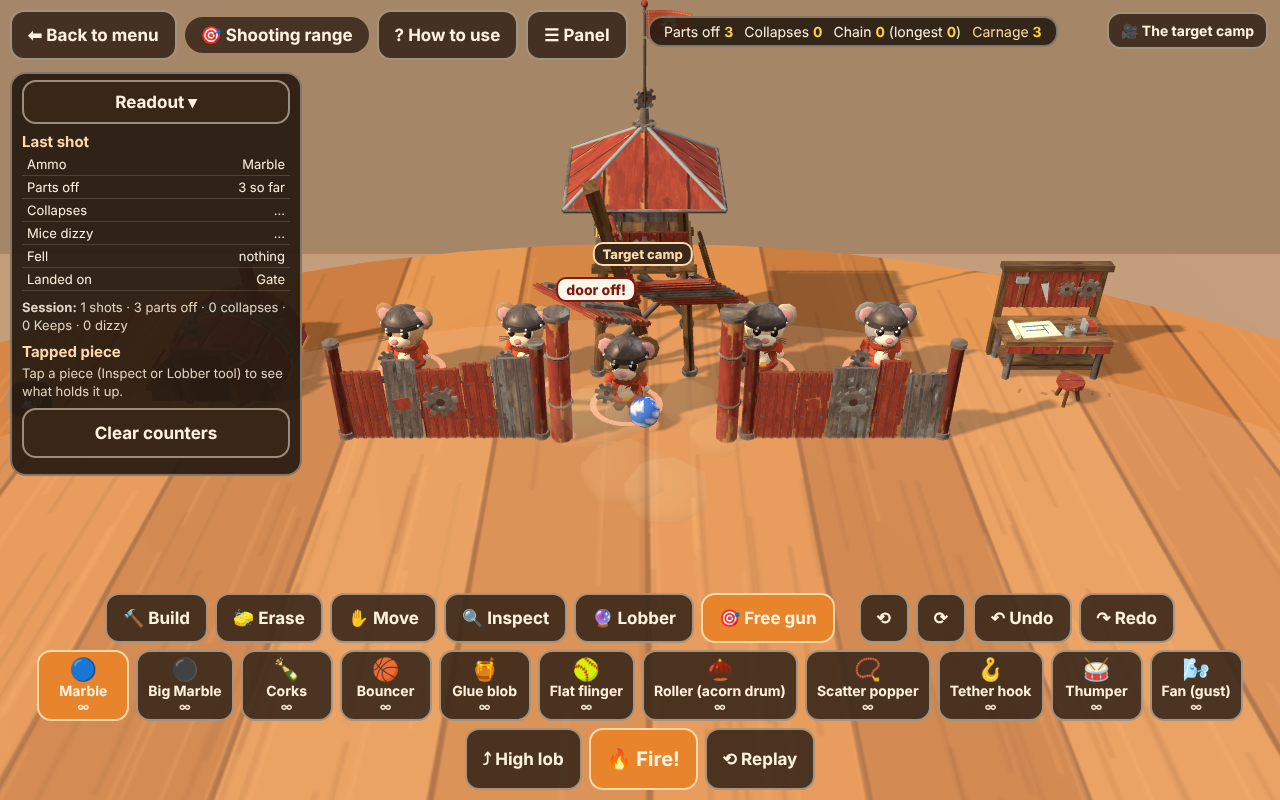
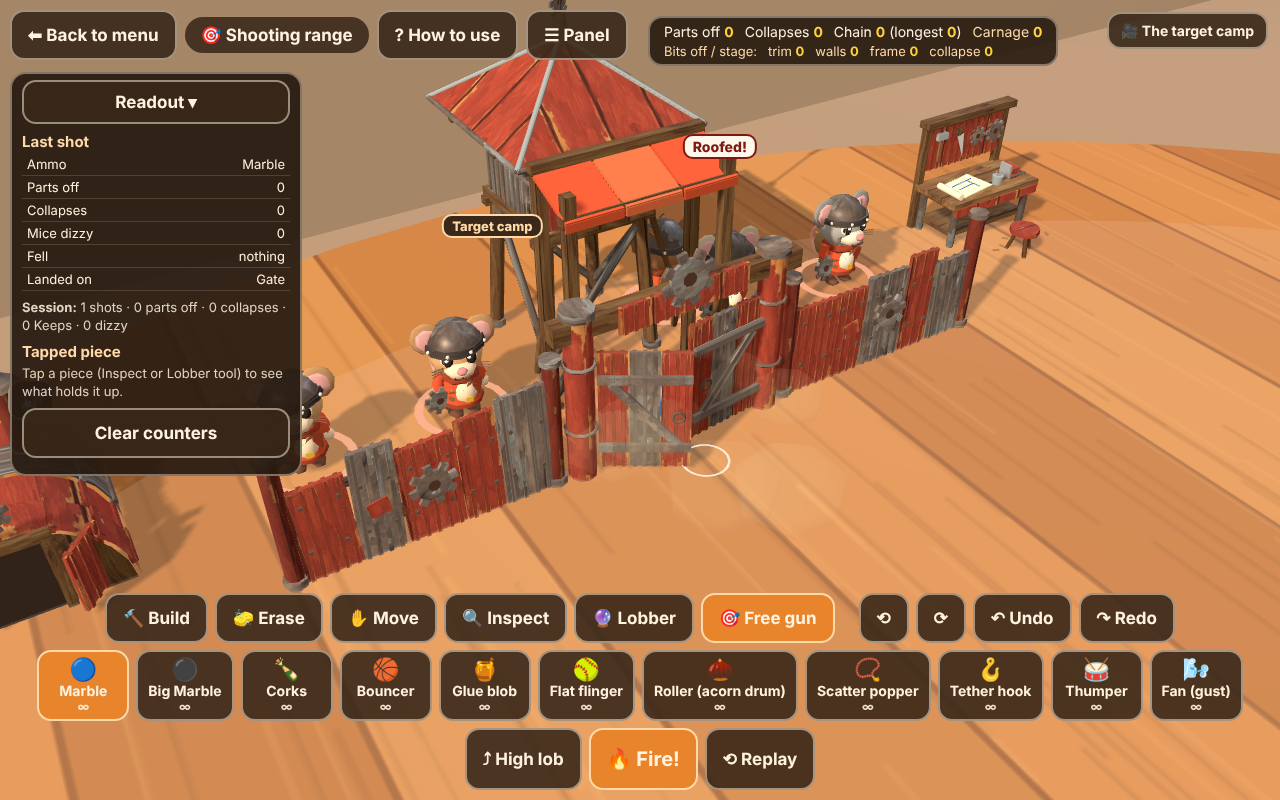
Arsenal: tests for every family and counter, counter matrix report, shots arsenal-1 to 8, camera elevation and yaw for close-ups
Claude-Session: https://claude.ai/code/session_0171oc5wTsPoimaja7RRfUcs

diff --git a/games/sofa-siege/tests/lab-test.js b/games/sofa-siege/tests/lab-test.js
@@ -390,6 +390,114 @@ const run = async () => {
   const mm = await ev(() => { SG.start('blue', { level: 'easy', seed: 3 }); const o = { kit: SG.sides.every((s) => s.kit.every((k) => !SG.BK[k.kind])), phase: SG.phase }; SG.skipBuild(); o.pieces = SG.pieces.every((p) => !SG.BK[p.kind]); SG.reset(); SG.labStart(); SG.lab.card = false; return o; });
   ok('a match never has a building: no kit has one, and a match camp built for both sides has none', mm.kit && mm.pieces);
 
+  /* 13. The Arsenal: seven families of weapon, the pieces that counter them, and the counter matrix */
+  const ARS_START = () => { SG.labStart(); SG.lab.card = false; SG.hold = true; SG.lab.topple = false; SG.setProto('arsenal', true, false); };
+  const KINDS = ['awning', 'shield', 'ditch', 'logs', 'net', 'cutter', 'heavy', 'lowwall'];
+  await ev(ARS_START);
+  ok('Arsenal: eight new pieces (Roof, Shield board, Ditch, Log barrier, Net, Cutter post, Heavy block, Low wall) have a size, a height and a part table of three parts or more; the kit brace is the ninth counter', await ev((K) => K.every((k) => SG.FOOT[k] && SG.TALL[k] > 0 && SG.BK[k] && SG.bldInfo(k) && Object.keys(SG.bldInfo(k).parts).length >= 3) && !!SG.FOOT.brace, KINDS));
+  await btn('tool_build');
+  const bar = await ev((K) => ({ kinds: K.every((k) => !!document.querySelector('#lab [data-a="k_' + k + '"]')), camps: ['bare', 'roof', 'shield', 'ground', 'net', 'cutter', 'brace', 'heavy', 'all'].every((c) => !!document.querySelector('#lab [data-a="tg_ars_' + c + '"]')) }), KINDS);
+  ok('...all eight are in the Build bar, and the target list has nine Arsenal camps (bare, one for each counter, and every counter)', bar.kinds && bar.camps, JSON.stringify(bar));
+  ok('...they are in no kit and no match has one (a match started now has five kinds of ammunition, no Arsenal weapon, and a design with a Roof in it drops the Roof)', await ev((K) => {
+    SG.labStart(); SG.lab.card = false; SG.setProto('arsenal', true, false); SG.labLoadTarget('empty', true); SG.labPlace('awning', 0, 1.5, Math.PI); const d = SG.labToDesign(0, 'with a roof'); const has = d.placements.some((q) => q.kind === 'awning');
+    SG.labBack(); SG.start('blue', { level: 'easy', seed: 3 }); const o = { has, ammo: Object.keys(SG.ammo).length, kit: SG.sides.every((s) => s.kit.every((k) => K.indexOf(k.kind) < 0)), off: !SG.labFlags.arsenal };
+    SG.labDesignToBuild && 0; SG.skipBuild(); o.pieces = SG.pieces.every((p) => K.indexOf(p.kind) < 0); SG.reset(); SG.labStart(); SG.lab.card = false; return has && o.ammo === 5 && o.kit && o.pieces && o.off; }, KINDS));
+  ok('...the Arsenal switch (a Lab prototype) is off by default: the ammo row has the five old kinds; on it has six more (flinger, roller, popper, hook, thumper, fan); Back to menu puts them away', await ev(() => {
+    SG.labStart(); const a = Object.keys(SG.ammo).length; SG.setProto('arsenal', true, false); const b = Object.keys(SG.ammo); const rec = SG.ammo.flinger && SG.ammo.fan && SG.ammo.thumper; SG.labBack(); const c = Object.keys(SG.ammo).length; SG.labStart(); SG.lab.card = false; return a === 5 && b.length === 11 && !!rec && c === 5; }));
+  ok('...costs: every counter is 1 budget point or less ("cheap"), and each is cheaper than the weapon it is aimed at', await ev(() => { SG.labStart(); SG.setProto('arsenal', true, false); const c = SG.CONFIG.v2.cost, F = SG.arsFor, W = { lobber: 'marble', flinger: 'flinger', roller: 'roller', popper: 'popper', hook: 'hook', thumper: 'thumper', fan: 'fan' }, bad = [];
+    Object.keys(F).forEach((f) => F[f].forEach((k) => { const cost = c[k] == null ? 1 : c[k]; if (cost > 1.5 || cost >= SG.wPrice(SG.ammo[W[f]].w)) bad.push(k + ' ' + cost + ' vs ' + f); })); SG.setProto('arsenal', false, false); return bad.length ? bad.join() : true; }));
+  /* the supports of each counter, one at a time: take away what holds it and what hung on it falls */
+  const SUPPORT = {
+    awning: [[['awning.post.FL', 'awning.post.FR'], 'awning.beam.F', false], [['awning.post.BL', 'awning.post.BR'], 'awning.cloth.1', false]],
+    shield: [[['shield.leg.L'], 'shield.plank.2', true], [['shield.leg.R'], 'shield.plank.2', false]],
+    ditch: [[['ditch.rim.F'], 'ditch.pit.1', true], [['ditch.rim.B'], 'ditch.pit.1', false]],
+    logs: [[['logs.peg.L'], 'logs.log.0', true], [['logs.peg.R'], 'logs.log.2', false]],
+    net: [[['net.pole.FL', 'net.pole.FR'], 'net.rope.F', false], [['net.pole.BL', 'net.pole.BR'], 'net.mesh.1', false]],
+    cutter: [[['cutter.post'], 'cutter.blade.1', false]], heavy: [[['heavy.block'], 'heavy.ring', false]], lowwall: [[['lowwall.base'], 'lowwall.brick.3', false]] };
+  for (const k of KINDS) {
+    const r = await ev(([k, S]) => { SG.labStart(); SG.lab.card = false; SG.labLoadTarget('empty', true); SG.labLoadRecs(0, []); const a = SG.labPlace(k, 0, 1.6, Math.PI), b = SG.labPlace(k, 0, -1.6, 0); const p = b.piece; const o = { both: a.ok && b.ok && a.piece.built && b.piece.built && a.piece.side === 0 && b.piece.side === 1, steps: [] };
+      const on = (id) => p.ps.filter((q) => q.id === id)[0].st === 'on';
+      S[k].forEach(([cut, probe, standsAfter]) => { cut.forEach((id) => SG.debug.knock(p.id, id)); o.steps.push([probe, on(probe), standsAfter]); });
+      o.floating = SG.bldFloating().length; o.rule = SG.labSupports(p).rows.length > 0; return o; }, [k, SUPPORT]);
+    ok('Arsenal piece ' + k + ': goes on either camp, built; its support rule holds (' + SUPPORT[k].map((s) => s[0].join('+')).join(', then ') + ' gone: what hung on it falls, nothing floats), and Inspect lists its supports', r.both && r.steps.every(([, on, stands]) => on === stands) && r.floating === 0 && r.rule, JSON.stringify(r));
+  }
+  /* the seven families, one at a time (all with a fixed seed: the same shot gives the same result) */
+  const SHOT = (amm, camp, hi, seed, spotFn) => `(() => { SG.labLoadTarget('ars_${camp}', true); const Y = SG.arsLayout(), k = SG.arsCamp('bare', 1).find((r) => r.kind === 'tower'); SG.labSetAmmo('${amm}'); SG.labSetHigh(${!!hi}); const sp = ${spotFn || '[0, Y.keep]'}, w = SG.arsCamp('bare', 1)[0]; const f = (c) => ({ x: -c[0], z: -c[1] });
+    const t = f(sp), a = SG.labFire(0, 'gun', t.x, t.z, { force: true, seed: ${seed || 100} }); SG.labSettle(12); const c = SG.lab.cur; return { a, c, land: c.landings[0], parts: c.parts.map((q) => q.kind + '.' + q.part) }; })()`;
+  ok('Arsenal, Lobber (the Marble lobbed): a low lob lands on the first piece in the way (the gate); a high lob goes over it and lands on the Keep; a Roof over the Keep takes a high lob (the blast shrinks to a quarter, no Keep part comes off) and a panel comes off after two low lobs', await ev(([S1, S2, S3, S4]) => {
+    SG.labStart(); SG.lab.card = false; SG.setProto('arsenal', true, false); SG.lab.topple = false; const lo = eval(S1), hi = eval(S2), rf = eval(S3); const r1 = rf.land.r, r0 = hi.land.r; window.__lb = [lo.land.hit, hi.land.hit, rf.land.hit, r1, r0];
+    const k = SG.arsCamp('bare', 1).find((r) => r.kind === 'tower'); SG.labLoadTarget('ars_roof', true); SG.labSetAmmo('marble'); SG.labSetHigh(false); const panels = () => SG.pieces.filter((p) => p.kind === 'awning')[0].ps.filter((q) => /cloth/.test(q.id) && q.st === 'on').length; const n0 = panels(); for (let i = 0; i < 2; i++) { SG.labFire(0, 'gun', k.x, k.z, { force: true, seed: 100 + i }); SG.labSettle(10); }
+    return lo.land.hit === 'gate' && hi.land.hit === 'tower' && rf.land.hit === 'awning' && r1 <= r0 * .3 && rf.parts.length === 0 && panels() === n0 - 1; }, [SHOT('marble', 'bare', false), SHOT('marble', 'bare', true), SHOT('marble', 'roof', true)]), JSON.stringify(await ev(() => window.__lb)));
+  ok('Arsenal, Flat flinger: a straight line (no arc), fast (about half the Marble\'s flight time), punches through a thin gate and lands on the Keep behind it; a tent in its way stops it (it needs a clear line); two shots with one seed are the same', await ev(() => {
+    SG.labStart(); SG.lab.card = false; SG.setProto('arsenal', true, false); SG.lab.topple = false; SG.labLoadTarget('ars_bare', true); const Y = SG.arsLayout(), t = { x: 0, z: -Y.keep }; const o = {};
+    SG.labSetAmmo('marble'); o.tm = SG.arc(0, t.x, t.z, 'gun').T; SG.labSetAmmo('flinger'); const ar = SG.arc(0, t.x, t.z, 'gun'); o.h = ar.h; o.tf = ar.T; const run = () => { SG.labLoadTarget('ars_bare', true); const a = SG.labFire(0, 'gun', t.x, t.z, { force: true, seed: 100 }); SG.labSettle(12); return { pn: a.pn, land: SG.lab.cur.landings[0].hit, parts: SG.lab.cur.parts.map((q) => q.part).join() }; };
+    const r1 = run(), r2 = run(); o.pierce = r1.pn === 1 && r1.land === 'tower' && /gate/.test(r1.parts); o.same = JSON.stringify(r1) === JSON.stringify(r2);
+    SG.labLoadTarget('ars_bare', true); const tent = SG.labPlace('tent', 0, -Y.row + .5, 0); const a2 = SG.labFire(0, 'gun', t.x, t.z, { force: true, seed: 100 }); SG.labSettle(12); o.tentHit = SG.lab.cur.landings[0].hit;
+    window.__fl = o; return o.h === 0 && o.tf < o.tm * .55 && o.pierce && o.same && (o.tentHit === 'tent' || o.tentHit === 'gate'); }), JSON.stringify(await ev(() => window.__fl)));
+  ok('Arsenal, Roller (acorn drum): lands short on the ground, then rolls on along the table and knocks the parts off the foot of the gate and walls (7 parts here); a ditch swallows it and a log barrier stops it', await ev(() => {
+    SG.labStart(); SG.lab.card = false; SG.setProto('arsenal', true, false); SG.lab.topple = false; const Y = SG.arsLayout(), t = { x: -.2, z: -(Y.front - .1) }, res = {};
+    ['bare', 'ditch', 'logs'].forEach((c) => { SG.labLoadTarget('ars_' + c, true); SG.labSetAmmo('roller'); const a = SG.labFire(0, 'gun', t.x, t.z, { force: true, seed: 100 }); let rolled = false; for (let i = 0; i < 700 && SG.marbles.some((m) => m.live); i++) { SG.step(1 / 60); if (a.rolling) rolled = true; } SG.labSettle(10); res[c] = { n: SG.lab.cur.partsOff, land: SG.lab.cur.landings[0].hit, rolled, stopped: !!(a.rl && a.rl.stopped), parts: SG.lab.cur.parts.map((q) => q.kind).join() }; });
+    window.__ro = res; return res.bare.rolled && res.bare.land === '' && res.bare.n >= 5 && res.ditch.stopped && /ditch/.test(res.ditch.parts + 'ditch') && res.ditch.n <= 1 && res.logs.stopped && res.logs.n <= 1; }), JSON.stringify(await ev(() => window.__ro)));
+  ok('Arsenal, Roller: a ditch lane that is full lets the next one over (4 to a lane), and a ditch does not stop a flat shot or a lob', await ev(() => {
+    SG.labStart(); SG.lab.card = false; SG.setProto('arsenal', true, false); SG.lab.topple = false; SG.labLoadTarget('ars_ditch', true); const Y = SG.arsLayout(), t = { x: -.2, z: -(Y.front - .1) }, st = []; SG.labSetAmmo('roller');
+    for (let i = 0; i < 6; i++) { const a = SG.labFire(0, 'gun', t.x, t.z, { force: true, seed: 100 }); SG.labSettle(12); st.push(!!(a.rl && a.rl.stopped)); }
+    const lane = SG.pieces.filter((p) => p.kind === 'ditch')[0].ps.filter((q) => /pit/.test(q.id) && q.st !== 'on').length; window.__dl = st.join() + ' lane ' + lane;
+    const fl = SG.labMatrixCell('flinger', 'ditch'), fb = SG.labMatrixCell('flinger', 'bare'); return st.slice(0, 4).every((x) => x) && !st[5] && lane === 1 && fl.score >= fb.score * .8; }), await ev(() => window.__dl));
+  ok('Arsenal, Scatter popper: eight beads in a wide cloud (spread over more than the Marble\'s blast), light damage (under half a Marble salvo), mice they land near are slowed; a Net catches the beads', await ev(() => {
+    SG.labStart(); SG.lab.card = false; SG.setProto('arsenal', true, false); SG.lab.topple = false; SG.labLoadTarget('ars_bare', true); const Y = SG.arsLayout(), t = { x: 0, z: -Y.keep }; SG.labSetAmmo('popper'); const a = SG.labFire(0, 'gun', t.x, t.z, { force: true, seed: 100 }); const balls = SG.marbles.length; let slowed = 0; for (let i = 0; i < 600; i++) { SG.step(1 / 60); slowed = Math.max(slowed, SG.mice.filter((m) => m.side === 1 && m.slowT > 0).length); if (SG.lab.cur.done) break; }
+    const xs = SG.lab.cur.landings.map((l) => l.x), spread = Math.max(...xs) - Math.min(...xs); const pop = SG.labMatrixCell('popper', 'bare'), lob = SG.labMatrixCell('lobber', 'bare'), net = SG.labMatrixCell('popper', 'net'); window.__po = { balls, slowed, spread: +spread.toFixed(2), pop: pop.score, lob: lob.score, net: net.score, caught: net.caught };
+    return balls === 8 && slowed >= 1 && spread > .3 && pop.score < lob.score / 2 && net.score <= pop.score * .6 && net.caught >= 3; }), JSON.stringify(await ev(() => window.__po)));
+  ok('Arsenal, Tether hook: snags the first part it passes and yanks it a unit and a half toward the gun; a Cutter post cuts the string (the blade comes off, nothing is yanked); a Net catches the hook', await ev(() => {
+    SG.labStart(); SG.lab.card = false; SG.setProto('arsenal', true, false); SG.lab.topple = false; const Y = SG.arsLayout(), t = { x: 0, z: -Y.row }, o = {};
+    SG.labLoadTarget('ars_bare', true); SG.labSetAmmo('hook'); let a = SG.labFire(0, 'gun', t.x, t.z, { force: true, seed: 100 }); SG.labSettle(12); const gate = SG.pieces.filter((p) => p.kind === 'gate' && p.side === 1)[0], off = gate.ps.filter((q) => q.st === 'off')[0]; o.snag = !!a.snag; o.yank = !!off && off.rz > off.wz + .5; o.parts = SG.lab.cur.partsOff;
+    SG.labLoadTarget('ars_cutter', true); SG.labSetAmmo('hook'); const c0 = SG.stats.cuts | 0; a = SG.labFire(0, 'gun', t.x, t.z, { force: true, seed: 100 }); SG.labSettle(12); o.cut = (SG.stats.cuts | 0) - c0; o.cutParts = SG.lab.cur.parts.map((q) => q.kind).join();
+    SG.labLoadTarget('ars_net', true); SG.labSetAmmo('hook'); const k0 = SG.stats.caught | 0; a = SG.labFire(0, 'gun', t.x, t.z, { force: true, seed: 100 }); SG.labSettle(12); o.caught = (SG.stats.caught | 0) - k0; o.netParts = SG.lab.cur.parts.map((q) => q.kind).join();
+    window.__hk = o; return o.snag && o.yank && o.parts >= 1 && o.cut === 1 && o.cutParts === 'cutter' && o.caught >= 1 && !/gate|wall|tower/.test(o.netParts); }), JSON.stringify(await ev(() => window.__hk)));
+  ok('Arsenal, Thumper: shakes the ground and loosens what only a strong shake can: a wall with no brace loses its planks and a gate its doors and lintel; a wall with a brace piece keeps them; the old Pocket Earthquake (one fastener) leaves both alone', await ev(() => {
+    SG.labStart(); SG.lab.card = false; SG.setProto('arsenal', true, false); SG.setProto('p_quake', true, false); SG.lab.topple = false; const o = {}, recs = SG.arsCamp('bare', 1), wall = recs.filter((r) => r.kind === 'wall')[0], gateR = recs.filter((r) => r.kind === 'gate')[0];
+    const planks = () => SG.pieces.filter((p) => p.side === 1 && p.kind === 'wall').map((p) => p.ps.filter((q) => /plank/.test(q.id) && q.st === 'on').length), gate = () => SG.pieces.filter((p) => p.side === 1 && p.kind === 'gate')[0].ps.filter((q) => q.st === 'on').length;
+    const thump = (camp, amm, at) => { SG.labLoadTarget('ars_' + camp, true); SG.labSetAmmo(amm); SG.labFire(0, 'gun', at.x, at.z, { force: true, seed: 100 }); SG.labSettle(12); };
+    SG.labLoadTarget('ars_bare', true); o.pb = planks().join(); o.gb = gate(); thump('bare', 'thumper', wall); o.bare = planks().join(); thump('brace', 'thumper', wall); o.braced = planks().join(); thump('bare', 'p_quake', wall); o.old = planks().join();
+    SG.labLoadTarget('ars_bare', true); thump('bare', 'thumper', gateR); o.gate = o.gb - gate(); thump('bare', 'p_quake', gateR); o.gateOld = o.gb - gate(); SG.setProto('p_quake', false, false); window.__th = o;
+    return o.pb === '5,5' && Math.min(...o.bare.split(',').map(Number)) === 0 && o.braced === '5,5' && o.old === '5,5' && o.gate >= 3 && o.gateOld === 0; }), JSON.stringify(await ev(() => window.__th)));
+  ok('Arsenal, Fan: no damage by itself (no part off, no collapse), blows the mice sideways, moves a Marble fired through the gust off its line, tears the cloth off a Roof; a Heavy block shelters the mice near it', await ev(() => {
+    SG.labStart(); SG.lab.card = false; SG.setProto('arsenal', true, false); SG.lab.topple = false; const Y = SG.arsLayout(), t = { x: 0, z: -(Y.keep - .1) }, o = {};
+    const mice = () => SG.mice.filter((m) => m.side === 1).map((m) => [m.x, m.z]);
+    SG.labLoadTarget('ars_bare', true); const m0 = mice(); SG.labSetAmmo('fan'); SG.labFire(0, 'gun', t.x, t.z, { force: true, seed: 100 }); SG.labSettle(12); o.parts = SG.lab.cur.partsOff; o.col = SG.lab.cur.collapses; o.blown = SG.stats.blown | 0;
+    /* a Marble through the gust: fire the fan, wait for the landing, then a Marble at the same spot while the gust blows */
+    const land = (withGust) => { SG.labLoadTarget('ars_bare', true); SG.gusts = []; if (withGust) { SG.labSetAmmo('fan'); SG.labFire(0, 'gun', t.x, t.z, { force: true, seed: 100 }); for (let i = 0; i < 400 && !(SG.gusts && SG.gusts.length); i++) SG.step(1 / 60); SG.step(.3); }
+      SG.labSetAmmo('marble'); SG.labSetHigh(true); const a = SG.labFire(0, 'gun', t.x, t.z, { force: true, seed: 100 }); const x1 = a.x1; for (let i = 0; i < 400 && a.live; i++) SG.step(1 / 60); SG.labSettle(12); const l = SG.lab.cur.landings[0]; return l ? l.x : null; };
+    const xa = land(false), xb = land(true); o.drift = xa == null || xb == null ? 0 : Math.abs(xb - xa); SG.labSetHigh(false);
+    SG.labLoadTarget('ars_roof', true); SG.labSetAmmo('fan'); SG.labFire(0, 'gun', t.x, t.z, { force: true, seed: 100 }); SG.labSettle(12); o.cloth = SG.pieces.filter((p) => p.kind === 'awning')[0].ps.filter((q) => /cloth/.test(q.id) && q.st !== 'on').length;
+    const bare = SG.labMatrixCell('fan', 'bare'), hv = SG.labMatrixCell('fan', 'heavy'); o.bare = bare.mice; o.heavy = hv.mice; window.__fn = o;
+    return o.parts === 0 && o.col === 0 && o.blown >= 1 && o.drift > .04 && o.cloth >= 1 && hv.mice <= bare.mice * .6; }), JSON.stringify(await ev(() => window.__fn)));
+  /* the counter matrix: every weapon at nine camps */
+  const MX = await ev(() => { SG.labStart(); SG.lab.card = false; return SG.labMatrix(); });
+  const MX2 = await ev(() => SG.labMatrix({ noStock: true }));
+  ok('Counter matrix: 7 weapons (and the high-lob variant) at 9 camps, a verdict for each ("countered by X, strong vs Y"), and the same numbers when run again (seeded)', MX.weapons.length === 8 && MX.camps.length === 9 && MX.weapons.every((w) => /countered by .+; strong vs /.test(w.verdict)) && JSON.stringify(MX.weapons.map((w) => w.cells)) === JSON.stringify(MX2.weapons.map((w) => w.cells)), MX.weapons.map((w) => w.verdict).join(' | '));
+  const RED = (f, c) => MX.weapons.filter((w) => w.id === f)[0].reduction[c], X = 40;
+  ok('Counter matrix: each counter cuts the damage of the weapon it is aimed at by at least ' + X + '%: Roof vs Lobber ' + RED('lobber', 'roof') + '%, Shield board vs Flat flinger ' + RED('flinger', 'shield') + '%, Ditch + logs vs Roller ' + RED('roller', 'ground') + '%, Net vs Popper ' + RED('popper', 'net') + '% and Hook ' + RED('hook', 'net') + '%, Cutter post vs Hook ' + RED('hook', 'cutter') + '%, Extra braces vs Thumper ' + RED('thumper', 'brace') + '%, Heavy block + low wall vs Fan ' + RED('fan', 'heavy') + '%',
+    [['lobber', 'roof'], ['flinger', 'shield'], ['roller', 'ground'], ['popper', 'net'], ['hook', 'net'], ['hook', 'cutter'], ['thumper', 'brace'], ['fan', 'heavy'], ['lobhigh', 'roof']].every(([f, c]) => RED(f, c) >= X));
+  const single = await ev(() => { const o = {}; [['roller', 'ditch'], ['roller', 'logs'], ['flinger', 'logs'], ['fan', 'lowwall'], ['lobber', 'awning'], ['hook', 'cutter']].forEach(([f, c]) => { const a = SG.labMatrixCell(f, 'bare'), b = SG.labMatrixCell(f, c); o[f + '/' + c] = a.score > 0 ? Math.round((1 - b.score / a.score) * 100) : 0; }); return o; });
+  ok('...and the pieces alone: Ditch vs Roller ' + single['roller/ditch'] + '%, Log barrier vs Roller ' + single['roller/logs'] + '% and vs Flat flinger ' + single['flinger/logs'] + '%, Low wall vs Fan ' + single['fan/lowwall'] + '% (at least 25%), Roof alone vs Lobber ' + single['lobber/awning'] + '%', single['roller/ditch'] >= X && single['roller/logs'] >= X && single['flinger/logs'] >= X && single['fan/lowwall'] >= 25 && single['lobber/awning'] >= X);
+  ok('Counter matrix: a counter does only its own job (Roof, Net, Cutter, Brace, Heavy block each cut the Flat flinger by under 15%; the Shield board does not touch a Roller or a Thumper by more than 30%)', ['roof', 'net', 'cutter', 'brace', 'heavy'].every((c) => RED('flinger', c) < 15) && RED('roller', 'shield') < 30 && RED('thumper', 'shield') < 30, ['roof', 'net', 'cutter', 'brace', 'heavy'].map((c) => RED('flinger', c)).join());
+  ok('Counter matrix: every weapon still beats a camp without its counter (the bare camp costs it at least 2 points, 3 for all but the popper and the fan), and has a stock camp it is strong against (5 points or more, 2 for the popper and the fan)', MX.weapons.filter((w) => w.id !== 'lobhigh').every((w) => w.cells.bare.score >= (w.id === 'popper' || w.id === 'fan' ? 2 : 3) && w.stock[w.strongVs].score >= (w.id === 'popper' || w.id === 'fan' ? 2 : 5)), MX.weapons.map((w) => w.id + ' ' + w.cells.bare.score + '/' + (w.stock[w.strongVs] || {}).score).join(' '));
+  ok('Counter matrix: no one counter makes a camp immune (with any single counter at least four weapons still do damage of one point or more), and the weapons differ (each family has a different best camp or a different best counter)', MX.camps.filter((c) => c.id !== 'bare' && c.id !== 'all').every((c) => MX.weapons.filter((w) => w.id !== 'lobhigh' && w.cells[c.id].score >= 1).length >= 4) && new Set(MX.weapons.filter((w) => w.id !== 'lobhigh').map((w) => w.counteredBy.join() + '|' + w.strongVs)).size >= 6);
+  const longAll = await ev(() => { const o = {}; ['lobber', 'flinger', 'roller', 'popper', 'hook', 'thumper', 'fan'].forEach((f) => { o[f] = SG.labMatrixCell(f, 'all', { shots: 20, seeds: 2 }).score; }); return o; });
+  ok('Counter matrix: counters wear out, so the camp with every counter is not immune: twenty shots from at least one family still do five points or more (' + JSON.stringify(longAll) + ')', Math.max(...Object.values(longAll)) >= 5);
+  const md = await ev((m) => SG.labMatrixMd(m), MX); const fs = await import('fs'); fs.writeFileSync(path.resolve(__dirname, '..', 'ARSENAL_REPORT.md'), md);
+  ok('ARSENAL_REPORT.md is written from this run (the table, a verdict for each weapon, strong-against table, prices)', md.indexOf('| Weapon (price) |') > 0 && md.split('\n').filter((l) => /^- \*\*/.test(l)).length === 8);
+  /* the panel: a button runs the matrix and shows the table */
+  const panel = await ev(() => { SG.labStart(); SG.lab.card = false; SG.lab.panel = true; SG.labRefresh(); return { weapons: document.querySelectorAll('#labArs [data-a^="ars_use_"]').length, counters: document.querySelectorAll('#labArs [data-a^="ars_kind_"]').length, mat: !!document.querySelector('#lab [data-a="ars_matrix"]') }; });
+  ok('Arsenal panel: lists the seven families and the nine counters, with a Counter matrix button', panel.weapons === 7 && panel.counters === 9 && panel.mat, JSON.stringify(panel));
+  await ev(() => { SG.setProto('arsenal', false, false); });
+  await btn('ars_matrix'); await p.waitForFunction("document.getElementById('labMatBox').style.display==='flex'", null, { timeout: 60000 });
+  const tbl = await ev(() => { const t = document.querySelectorAll('#labMatTxt table'); return { rows: t[0].rows.length, cols: t[0].rows[0].cells.length, verdicts: document.querySelectorAll('#labMatTxt li').length, on: !!SG.labFlags.arsenal }; });
+  ok('Counter matrix button: the table has a row for each weapon and a column for each camp (8 rows, 9 camps), a verdict for each, and the Arsenal switch is put back as it was', tbl.rows === 9 && tbl.cols === 10 && tbl.verdicts === 8 && tbl.on === false, JSON.stringify(tbl));
+  await btn('ars_matok');
+  ok('Arsenal: the ammo row has all eleven kinds with the switch on, and each Arsenal weapon fires from the Free gun and lands (a shot of each: something comes down)', await ev(() => { SG.labStart(); SG.lab.card = false; SG.setProto('arsenal', true, false); SG.labLoadTarget('ars_bare', true); SG.lab.tool = 'gun'; SG.labUi && 0; const ids = ['marble', 'flinger', 'roller', 'popper', 'hook', 'thumper', 'fan'], Y = SG.arsLayout(); let landed = 0; ids.forEach((id) => { SG.labLoadTarget('ars_bare', true); SG.labSetAmmo(id); const a = SG.labFire(0, 'gun', 0, -Y.keep, { force: true, seed: 3 }); SG.labSettle(12); if (SG.lab.cur && SG.lab.cur.landings.length) landed++; }); const n = Object.keys(SG.ammo).length; SG.setProto('arsenal', false, false); return n === 11 && landed === 7; }));
+  await ev(() => { SG.labStart(); SG.lab.card = false; });
+
   /* 12. ten simulated minutes: nothing ends, nothing errors */
   const long = await ev(() => { SG.labStart(); SG.lab.card = false; SG.seed = 2024; SG.labPresets.forEach((pr) => SG.setProto('p_' + pr.key, true)); const ids = Object.keys(SG.ammo), T = ['walled', 'domino', 'braced', 'stack', 'fortress', 'castle', 'glass', 'copy', 'longwall', 'workshops', 'village', 'maze', 'empty'], kinds = ['wall', 'gate', 'tent', 'workshop', 'trap', 'tower'];
     let shots = 0, resets = 0, t = 0, r = 12345; const rnd = () => { r = (r * 16807) % 2147483647; return r / 2147483647; };

diff --git a/games/sofa-siege/game.js b/games/sofa-siege/game.js
@@ -1163,7 +1163,7 @@ function initView(){
 function camTarget(){var a=W/H,t=Math.tan(20*PI/180),v=SG.cam||0,need=[3.65,2.9,1.9,2.7][v],dH=[7.1,5.2,3.9,4.5][v],d=Math.max(need/(t*a),dH),el=v===0?(a<1?.95:.72):(v===1?.7:(v===3?.58:.62)),lz=[.25,1.75,.1,-1.9][v];
   /* the camera stands behind your own camp and looks across the table */
   var b=baseOf(0),bl=Math.sqrt(b.x*b.x+b.z*b.z),dx=bl>.2?b.x/bl:0,dz=bl>.2?b.z/bl:1,h=v===2?hillAt():{x:0,z:0};if(v===1)lz=Math.max(.9,bl-.15);if(v===2)lz=0;if(SG.mode==='lab'&&SG.phase!=='start'&&v===0)lz+=.45;   /* the Lab's bars cover the bottom of the screen: the table sits a little higher */
-  var F=SG.mode==='lab'&&SG.lab&&SG.lab.focus;if(F){var d2=d*F.zoom;return [F.x+dx*Math.cos(el)*d2,Math.sin(el)*d2+(F.y||0),F.z+dz*Math.cos(el)*d2,F.x,(F.y||0)-.1,F.z];}   /* the Lab's close-up (screenshots, tests): look at a spot, from this share of the usual distance */
+  var F=SG.mode==='lab'&&SG.lab&&SG.lab.focus;if(F){var d2=d*F.zoom,e2=F.el||el,cx=dx*Math.cos(e2)*d2,cz=dz*Math.cos(e2)*d2,yw=F.yaw||0,c1=Math.cos(yw),s1=Math.sin(yw);return [F.x+cx*c1-cz*s1,Math.sin(e2)*d2+(F.y||0),F.z+cx*s1+cz*c1,F.x,(F.y||0)-.1,F.z];}   /* F.el (elevation) and F.yaw (turn round the spot, radians) are optional: the Arsenal's screenshots use them */   /* the Lab's close-up (screenshots, tests): look at a spot, from this share of the usual distance */
   return [h.x+dx*(lz+Math.cos(el)*d),Math.sin(el)*d,h.z+dz*(lz+Math.cos(el)*d),h.x+dx*lz,-.1,h.z+dz*lz];}
 function moveCamera(){
   if(SG.mode==='table'&&SG.phase!=='start'){var t=Math.tan(10*PI/180),hh=Math.max(120,H-128),d=Math.max(3.38*H/hh/t,3.38/(t*W/H));var tl=(SG.tilt||0)*PI/180;var bb=baseOf(0),bn=Math.sqrt(bb.x*bb.x+bb.z*bb.z),ux=bn>.2?bb.x/bn:0,uz=bn>.2?bb.z/bn:1;   /* blue's camp is at the bottom edge of the screen */
@@ -1790,7 +1790,7 @@ var ARS={
   thin:{wall:1,gate:1,lowwall:1},  /* what a flinger can punch through */
   counters:['awning','shield','ditch','logs','net','cutter','heavy','lowwall','brace']
 };
-SG.ARS=ARS;SG.CK=CK;
+SG.ARS=ARS;SG.CK=CK;SG.TALL=TALL;
 /* what a weapon is, from its numbers (so a Workshop weapon is placed too) */
 function famOf(W){if(!W)return 'lob';if(W.gust>0)return 'gust';if(W.tether>0)return 'tether';if(W.roll>0)return 'roll';if(W.quake>0&&W.blast<=.05)return 'thump';if(W.line>0||W.pierce>0)return 'flat';if(W.scatter>=4)return 'scatter';return 'lob';}
 SG.famOf=famOf;
@@ -1836,22 +1836,23 @@ function arsRoll(a,r){if(r.stopped||r.left<=0)return;var u=U(),pad=C3.rollR*u;
     var li=-1,hy=-1;p.ps.forEach(function(q,j){if(q.st==='on'&&/\.log\./.test(q.id)&&q.wy>hy){hy=q.wy;li=j;}});if(li<0)continue;
     var lq=p.ps[li];lq.hits=(lq.hits|0)+1;pop(r.x,r.z,'Thunk!',false,.2);arsStop(a,r);if(lq.hits>=ARS.logDepth){SG.att=a.side;SG.cause='roll';knock(p,li,r.dx,r.dz,'roll',(.08+rand()*.05)*u);settle(p,a.side);}return;}}
 /* a strong thump (qlvl 2) also shakes loose what only a heavy shake can: the planks of a wall with no brace, a gate's door and lintel, a Keep's braces with none to prop it. A brace piece holds all of it. */
-function arsLoose(p,list,pos,Rq,a){var A=AMMO[a.ammo],W=A&&A.w;if(!W||!(W.qlvl>=2)||boxDist(p,pos[0],pos[2])>Rq*ARS.strongR)return list;
-  var add=[],k=p.kind,cap=W.cap>0?W.cap:99;if((a.qn|0)>=cap)return list;
-  if(k==='wall'){if(!props(p).length)p.ps.forEach(function(q,i){if(q.st==='on'&&/plank/.test(q.id))add.push(i);});}
-  else if(k==='gate'){p.ps.forEach(function(q,i){if(q.st==='on'&&/lintel|door/.test(q.id))add.push(i);});}
-  else if(k==='tower'){if(!props(p).length)p.ps.forEach(function(q,i){if(q.st==='on'&&/^tower\.brace/.test(q.id))add.push(i);});}
-  add=add.filter(function(i){return list.indexOf(i)<0;});add.sort(function(x,y){var qa=p.ps[x],qb=p.ps[y];return dist(qa.wx,qa.wz,pos[0],pos[2])-dist(qb.wx,qb.wz,pos[0],pos[2]);});
-  add=add.slice(0,Math.max(0,cap-(a.qn|0)-list.length));a.qn=(a.qn|0)+add.length+list.length;return list.concat(add);}
+function arsLoose(p,list,pos,Rq,a){var A=AMMO[a.ammo],W=A&&A.w;if(!W||!(W.qlvl>=2))return list;
+  if(!a.qplan){   /* the strong thump takes the nearest loose parts first, across every piece, up to the weapon's cap */
+    var cap=W.cap>0?W.cap:99,cand=[];
+    SG.pieces.forEach(function(q){if(!q.built||q.down||!q.total||boxDist(q,pos[0],pos[2])>Rq*ARS.strongR)return;var k=q.kind,re=null;
+      if(k==='wall'){if(!props(q).length)re=/plank/;}else if(k==='gate')re=/lintel|door/;else if(k==='tower'){if(!props(q).length)re=/^tower\.brace/;}
+      if(re)q.ps.forEach(function(r,i){if(r.st==='on'&&re.test(r.id))cand.push({p:q.id,i:i,d:dist(r.wx,r.wz,pos[0],pos[2])});});});
+    cand.sort(function(x,y){return x.d-y.d||x.p-y.p||x.i-y.i;});a.qplan={};cand.slice(0,cap).forEach(function(c){(a.qplan[c.p]||(a.qplan[c.p]=[])).push(c.i);});}
+  var add=(a.qplan[p.id]||[]).filter(function(i){return list.indexOf(i)<0&&p.ps[i].st==='on';});return list.concat(add);}
 /* ---- the fan's gust: a field that blows for a few seconds. It moves shots in the air, mice, loose parts and the cloth of a roof or a net, and does no damage by itself. ---- */
 function arsMass(id){var A=AMMO[id],m=A&&A.w?A.w.mass:1;return m!==1?m:(ARS.massBy[id]||1);}
 function arsLee(x,z,g){var u=U();for(var i=0;i<SG.pieces.length;i++){var p=SG.pieces[i];if((p.kind!=='heavy'&&p.kind!=='lowwall')||p.side===g.side||!p.built||p.down||p.parts<=0)continue;if(boxDist(p,x,z)<=(p.kind==='heavy'?ARS.leeHeavy:ARS.leeLow)*u)return true;}return false;}
 function arsGustAt(a,pos){var W=AMMO[a.ammo].w,u=U(),dx=a.x1-a.x0,dz=a.z1-a.z0,l=Math.sqrt(dx*dx+dz*dz)||1;
-  (SG.gusts||(SG.gusts=[])).push({x:pos[0],z:pos[2],r:W.gust*u,t0:SG.clock,life:W.gustSecs,dx:-dz/l,dz:dx/l,k:W.push,side:a.side,pm:{},blown:0,parts:0,cloth:0,shots:0});
+  (SG.gusts||(SG.gusts=[])).push({x:pos[0],z:pos[2],r:W.gust*u,t0:SG.clock,age:0,life:W.gustSecs,dx:-dz/l,dz:dx/l,k:W.push,side:a.side,pm:{},blown:0,parts:0,cloth:0,shots:0});
   snd('whoosh');viewPuff(pos[0],pos[2],1.4);pop(pos[0],pos[2],'Gust!',false,.3);}
-function arsBusy(){var G=SG.gusts;if(!G)return false;for(var i=0;i<G.length;i++)if(SG.clock-G[i].t0<G[i].life&&SG.clock>=G[i].t0)return true;return false;}
+function arsBusy(){var G=SG.gusts;if(!G)return false;for(var i=0;i<G.length;i++)if(G[i].age<G[i].life)return true;return false;}
 function arsTick(dt){var G=SG.gusts;if(!G||!G.length)return;var u=U();
-  for(var gi=G.length-1;gi>=0;gi--){var g=G[gi],age=SG.clock-g.t0;if(age<0||age>=g.life){G.splice(gi,1);continue;}
+  for(var gi=G.length-1;gi>=0;gi--){var g=G[gi],age;g.age+=dt;age=g.age;if(age>=g.life){G.splice(gi,1);continue;}   /* its age is counted in ticks, not read from the clock, so a gust lasts the same number of ticks whenever it is blown */
     var env=Math.min(1,age/.25,(g.life-age)/.5),sp=ARS.gustSpeed*u*g.k*env;
     SG.marbles.forEach(function(m){if(!m.live||m.rolling||m.t<0)return;var k=Math.min(1,m.t/m.T),pp=marblePos(m,k);if(dist(pp[0],pp[2],g.x,g.z)>=g.r||arsLee(pp[0],pp[2],g))return;
       var s=sp*dt*ARS.shotK/arsMass(m.ammo),sx=g.dx*s,sz=g.dz*s;m.x0+=sx;m.x1+=sx;m.z0+=sz;m.z1+=sz;if(m.fx!=null){m.fx+=sx;m.fz+=sz;}m.drift=(m.drift||0)+s;if(!m.gusted){m.gusted=1;g.shots++;}});
@@ -2005,7 +2006,7 @@ function arsViewInit(){var A=V.ars={rings:[],streaks:null,string:null,i:0};for(v
   A.streaks=mk(90,0xe8f6ff,.8);A.string=mk(8,0xf5e6b0,.95);}
 function arsView(){if(!V.on||SG.mode!=='lab')return;if(!V.ars)arsViewInit();var A=V.ars,G=SG.gusts||[],i,n=0,pos=A.streaks.geometry.attributes.position,gi=0;
   for(i=0;i<A.rings.length;i++)A.rings[i].visible=false;
-  G.forEach(function(g){var age=SG.clock-g.t0;if(age<0||age>=g.life||gi>=A.rings.length)return;var env=Math.min(1,age/.25,(g.life-age)/.5),rg=A.rings[gi++];rg.visible=true;rg.position.set(g.x,.014,g.z);rg.scale.setScalar(g.r*(.96+.04*Math.sin(SG.clock*9)));rg.material.opacity=.45*env;
+  G.forEach(function(g){var age=g.age;if(age>=g.life||gi>=A.rings.length)return;var env=Math.min(1,age/.25,(g.life-age)/.5),rg=A.rings[gi++];rg.visible=true;rg.position.set(g.x,.014,g.z);rg.scale.setScalar(g.r*(.96+.04*Math.sin(SG.clock*9)));rg.material.opacity=.45*env;
     for(var k=0;k<14&&n<45;k++){var ph=((k*.37+age*.55)%1),pr=((k*.6180339)%1),ax=(pr-.5)*2*g.r*.9,ay=((k*.43)%1-.5)*2*g.r*.7;   /* streak k: starts upwind, slides downwind across the field */
       var cx=g.x-g.dx*g.r*.8+g.dx*ph*g.r*1.6+(-g.dz)*ax*.0+(-g.dz)*ay*.55,cz=g.z-g.dz*g.r*.8+g.dz*ph*g.r*1.6+(g.dx)*ay*.55,yy=.04+((k*.29)%1)*.34,len=g.r*.3;
       pos.setXYZ(n*2,cx,yy,cz);pos.setXYZ(n*2+1,cx+g.dx*len,yy,cz+g.dz*len);n++;}});
@@ -2015,21 +2016,20 @@ function arsView(){if(!V.on||SG.mode!=='lab')return;if(!V.ars)arsViewInit();var 
   A.string.visible=m>0;A.string.geometry.setDrawRange(0,m*2);sp.needsUpdate=true;}
 function arsViewHide(){var A=V.ars;if(!A)return;A.rings.forEach(function(r){r.visible=false;});A.streaks.visible=false;A.string.visible=false;}
 /* ---- screenshots: arsenal-1 to arsenal-8, one weapon in action each, two of them showing a counter ---- */
-SG.arsShot=function(name){SG.start('blue',{mode:'lab',seed:777});var L=SG.lab;L.card=false;L.panel=false;L.read=true;L.topple=false;SG.setProto('arsenal',true,false);SG.cam=3;L.tool='gun';SG.sides.forEach(function(sd){sd.hold=true;});
+SG.arsShot=function(name){SG.start('blue',{mode:'lab',seed:777});var L=SG.lab;L.card=false;L.panel=false;L.read=true;L.topple=false;SG.setProto('arsenal',true,false);SG.cam=3;L.tool='gun';
   var Y=arsLayout();function aimAt(id){var f=ARS_FAMS.concat(ARS_EXTRA).filter(function(q){return q.id===id;})[0],a=f.aim(Y),w=w2(1,a[0],a[1]);return {f:f,x:w[0],z:w[1]};}
-  function focus(zoom,y,dx,dz){var ps=SG.pieces.filter(function(q){return q.side===1;}),fx=0,fz=0;ps.forEach(function(q){fx+=q.x;fz+=q.z;});L.focus={x:fx/ps.length+(dx||0),z:fz/ps.length+(dz||0),zoom:zoom,y:y||0};SG.camSnap=true;}
-  function fire(id,camp,seed,until,after){labLoadTarget('ars_'+camp,true);var q=aimAt(id);L.ammo=q.f.ammo;L.high=!!q.f.high;SG.sides.forEach(function(sd){sd.ammo=q.f.ammo;sd.high=!!q.f.high;});L.gunAim={tx:q.x,tz:q.z};var a=SG.labFire(0,'gun',q.x,q.z,{force:true,seed:seed});
-    for(var i=0;i<900&&!until(a);i++)SG.step(STEP);for(i=0;i<(after||0);i++)SG.step(STEP);return a;}
+  function focus(cz,zoom,y,el,yaw,cx){L.focus={x:cx||0,z:-cz,zoom:zoom,y:y||0,el:el,yaw:yaw||0};SG.camSnap=true;}   /* cz: how far along the target camp (its Keep is at 2.55) */
+  function load(camp,id){labLoadTarget('ars_'+camp,true);var q=aimAt(id);L.ammo=q.f.ammo;L.high=!!q.f.high;SG.sides.forEach(function(sd){sd.ammo=q.f.ammo;sd.high=!!q.f.high;});L.gunAim={tx:q.x,tz:q.z};return q;}
+  function fire(camp,id,seed,until,after){var q=load(camp,id),a=SG.labFire(0,'gun',q.x,q.z,{force:true,seed:seed});for(var i=0;i<900&&!until(a);i++)SG.step(STEP);for(i=0;i<(after||0);i++)SG.step(STEP);return a;}
   var landed=function(){return !!(L.cur&&L.cur.landings.length);};
-  if(name==='arsenal-1-lobber'){fire('lobber','bare',5,landed,14);focus(.62,.2,0,.15);}
-  else if(name==='arsenal-2-flinger'){fire('flinger','bare',5,function(a){return a&&a.pn>0;},3);focus(.55,.1,0,.55);}
-  else if(name==='arsenal-3-roller'){fire('roller','bare',5,function(a){return a&&a.rolling&&a.rl&&a.rl.n>=3;},4);focus(.62,.1,0,.1);}
-  else if(name==='arsenal-4-popper'){fire('popper','bare',5,function(a){return SG.marbles.filter(function(m){return m.t>m.T+.05;}).length>=5;},10);focus(.62,.1,0,.1);}
-  else if(name==='arsenal-5-hook'){fire('hook','bare',5,function(a){return a&&a.snag;},12);focus(.62,.15,0,.4);}
-  else if(name==='arsenal-6-thumper'){fire('thumper','bare',5,landed,10);focus(.6,.1,0,.1);}
-  else if(name==='arsenal-7-fan-and-heavy'){fire('fan','all',5,landed,70);focus(.62,.2,0,.1);}
-  else if(name==='arsenal-8-shield-and-ditch'){labLoadTarget('ars_all',true);var q2=aimAt('flinger');L.ammo='flinger';SG.sides.forEach(function(sd){sd.ammo='flinger';});L.gunAim={tx:q2.x,tz:q2.z};SG.labFire(0,'gun',q2.x,q2.z,{force:true,seed:5});SG.labSettle(10);
-    L.ammo='roller';SG.sides.forEach(function(sd){sd.ammo='roller';});var q3=aimAt('roller');SG.labFire(0,'gun',q3.x,q3.z,{force:true,seed:6});SG.labSettle(10);SG.step(.3);focus(.6,.1,0,.5);}
+  if(name==='arsenal-1-lobber'){fire('roof','lobber',5,landed,16);focus(2.25,.5,.1,.62,.55);}
+  else if(name==='arsenal-2-flinger'){fire('bare','flinger',5,function(a){return a&&a.pn>0;},4);focus(2.2,.42,.05,.45,.8);}
+  else if(name==='arsenal-3-roller'){fire('ground','roller',5,function(a){return a&&a.rl&&a.rl.stopped;},10);focus(1.9,.45,.05,.55,.6);}
+  else if(name==='arsenal-4-popper'){fire('net','popper',5,function(a){return SG.stats.caught>=4;},6);focus(2.3,.45,.15,.6,.5);}
+  else if(name==='arsenal-5-hook'){fire('bare','hook',5,function(a){return a&&a.snag;},14);focus(1.4,.55,.25,.5,.45);}
+  else if(name==='arsenal-6-thumper'){fire('bare','thumper',5,landed,12);focus(2.25,.5,.1,.6,.4);}
+  else if(name==='arsenal-7-fan-and-heavy'){fire('all','fan',5,landed,80);focus(2.4,.5,.15,.6,.5);}
+  else if(name==='arsenal-8-shield-and-ditch'){load('all','flinger');var q2=aimAt('flinger');SG.labFire(0,'gun',q2.x,q2.z,{force:true,seed:5});SG.labSettle(10);L.ammo='roller';SG.sides.forEach(function(sd){sd.ammo='roller';});var q3=aimAt('roller');SG.labFire(0,'gun',q3.x,q3.z,{force:true,seed:6});SG.labSettle(10);SG.step(.3);focus(2.1,.62,.1,.8,.5);}
   SG.step(.2);if(hasDom)labUi();};
 
 /* ---- the range report: every kind of ammunition, in turn, at a fresh copy of the target ---- */

diff --git a/games/sofa-siege/tests/lab-shots.js b/games/sofa-siege/tests/lab-shots.js
@@ -1,6 +1,6 @@
 /* Round Table Kingdom Lab: the screenshots of the Workshop, the Castle, the Tether marble, the carnage counter, Rate it, and the Building Yard.
    Run: NODE_PATH=$(npm root -g) node tests/lab-shots.js   (writes shots/lab-6 to lab-16 and arsenal-1 to arsenal-8; name some scenes to make only those). The scenes are SG.labShot in game.js.
-   With --frames it makes no pictures and prints the frame time of the page as drawn, for the Castle and for a Building Yard of 3 (and the market row): software GL in a headless browser, so only the ratio means anything. */
+   With --frames it makes no pictures and prints the frame time of the page as drawn, for the Castle, a Building Yard of 3 (and the market row) and the Arsenal's camp with every counter: software GL in a headless browser, so only the ratio means anything. */
 import { createRequire } from 'module';
 import path from 'path';
 import { fileURLToPath } from 'url';
@@ -13,7 +13,7 @@ const NAMES = ARGS.length ? ARGS : ['lab-6-workshop', 'lab-7-castle', 'lab-8-tet
 const run = async () => {
   const b = await chromium.launch({ args: ['--use-gl=swiftshader', '--enable-unsafe-swiftshader', '--ignore-gpu-blocklist', '--allow-file-access-from-files'] });
   if (FRAMES) {
-    for (const tg of ['castle', 'yard', 'market', 'castle', 'yard']) {
+    for (const tg of ['castle', 'yard', 'market', 'castle', 'yard', 'ars_all', 'castle', 'ars_all']) {
       const p = await b.newPage({ viewport: { width: 1280, height: 800 } });
       await p.goto('file://' + path.resolve(__dirname, '..', 'index.html') + '?lab=1'); await p.waitForFunction('window.__done', null, { timeout: 60000 });
       await p.evaluate((t) => { SG.lab.card = false; SG.lab.panel = false; SG.labLoadTarget(t); SG.setCam(3); SG.labTool('fire'); SG.labFrameReset(); }, tg);

diff --git a/games/sofa-siege/ARSENAL_REPORT.md b/games/sofa-siege/ARSENAL_REPORT.md
@@ -1,0 +1,64 @@
+# Arsenal report: seven weapons against nine camps
+
+Made by `tests/lab-test.js` (`SG.labMatrix()`), written every run. Same camp every time (a Keep behind a gate and two walls, a tent and a workshop); only the counter changes. Piece scale small. Free gun, fixed seed 424242, each cell a fresh copy of the camp.
+
+**How a cell is made.** 5 shots: one at the aim spot and four round it (the first five points of the range report's carpet), nothing mended between them. The same volley at 4 seeds; the cell is the mean. Chain topple is off, so a falling piece does not knock its neighbours. **Points**: a part of the camp off 1, a collapse 3, a Keep felled 10, a mouse dizzied, slowed or blown .25. What the counters lose (their wear) is shown but not counted: a counter is there to be hit. "-80%" means 80% fewer points than the bare camp. A counter "counters" a weapon when it cuts the points by 40% or more.
+
+## Points (camp parts lost, then counter wear, then mice)
+
+| Weapon (price) | No counter | Roof (1 pt) | Shield board (1 pt) | Ditch + log barrier (2 pt) | Net (0.5 pt) | Cutter post (0.5 pt) | Extra braces (3 pt) | Heavy block + low wall (2 pt) | Every counter (10 pt) |
+|---|---:|---:|---:|---:|---:|---:|---:|---:|---:|
+| Lobber (4) | **7.1** 6p m4.5 | **0.1** 0p w3 m0.5 (-98%) | **3.5** 3p w2 m2 (-51%) | **7.1** 6p m4.5 (+0%) | **6.4** 6p m1.5 (-11%) | **7.1** 6p m4.5 (+0%) | **7.1** 6p m4.5 (+0%) | **7.1** 6p m4.5 (+0%) | **1.0** 1p w3 (-86%) |
+| Flat flinger (4.9) | **9.4** 6p m1.5 | **9.1** 6p m0.5 (-3%) | **0.0** 0p w4 (-100%) | **0.0** 0p w3 (-100%) | **9.1** 6p m0.5 (-3%) | **9.4** 6p m1.5 (+0%) | **9.4** 6p m1.5 (+0%) | **9.4** 6p m1.5 (+0%) | **0.0** 0p w3 (-100%) |
+| Roller (5.1) | **14.8** 11p m3 | **14.3** 11p m1.25 (-3%) | **14.8** 11p w3 m3.25 (+0%) | **0.0** 0p w1 (-100%) | **14.3** 11p m1.25 (-3%) | **14.8** 11p m3 (+0%) | **14.8** 11p w1 m3 (+0%) | **14.8** 11p m3 (+0%) | **0.0** 0p w1 (-100%) |
+| Scatter popper (3.3) | **3.1** 2.25p m3.25 | **1.9** 1.25p w3 m2.5 (-39%) | **1.7** 1p m2.75 (-45%) | **3.1** 2.25p m3.25 (+0%) | **0.9** 0.75p w3 m0.5 (-71%) | **3.1** 2.25p m3.25 (+0%) | **3.1** 2.25p w0.5 m3.5 (+2%) | **3.1** 2.25p w0.75 m3.25 (+0%) | **0.3** 0p w4.25 m1.25 (-90%) |
+| Tether hook (3.1) | **9.3** 6p m1 | **9.0** 6p (-3%) | **0.0** 0p w5 (-100%) | **3.0** 3p w2 (-68%) | **0.0** 0p (-100%) | **3.0** 3p w2 (-68%) | **9.3** 6p m1 (+0%) | **9.3** 6p m1 (+0%) | **0.0** 0p w3 (-100%) |
+| Thumper (4.7) | **17.9** 17p m3.5 | **17.1** 17p m0.5 (-4%) | **13.3** 13p m1 (-26%) | **17.9** 17p m3.5 (+0%) | **17.1** 17p m0.5 (-4%) | **17.9** 17p m3.5 (+0%) | **3.6** 3p m2.25 (-80%) | **18.0** 17p w1 m4 (+1%) | **3.0** 3p w2 (-83%) |
+| Fan (2.9) | **2.3** 0p m9 | **2.3** 0p w3 m9 (+0%) | **1.8** 0p m7 (-22%) | **2.3** 0p m9 (+0%) | **2.3** 0p w3 m9 (+0%) | **2.3** 0p m9 (+0%) | **2.3** 0p m9 (+0%) | **0.8** 0p m3 (-67%) | **0.3** 0p w6 m1.25 (-86%) |
+| Lobber, high lob (variant) (4) | **2.5** 2p m2 | **0.0** 0p (-100%) | **2.5** 2p m2 (+0%) | **2.5** 2p m2 (+0%) | **2.0** 2p (-20%) | **2.5** 2p m2 (+0%) | **2.5** 2p m2 (+0%) | **2.5** 2p m2 (+0%) | **0.0** 0p (-100%) |
+
+`p` camp parts lost, `w` counter parts lost (wear), `m` mice dizzied, slowed or blown.
+
+## Verdicts
+
+- **Lobber** (price 4 points): countered by Roof (98% less), Shield board (51% less); strong vs Long wall (8 points).
+- **Flat flinger** (price 4.9 points): countered by Shield board (100% less), Ditch + log barrier (100% less); strong vs Walled Keep (9 points).
+- **Roller** (price 5.1 points): countered by Ditch + log barrier (100% less); strong vs Walled Keep (14.31 points).
+- **Scatter popper** (price 3.3 points): countered by Net (71% less), Shield board (45% less); strong vs Long wall (4.06 points).
+- **Tether hook** (price 3.1 points): countered by Shield board (100% less), Net (100% less), Ditch + log barrier (68% less), Cutter post (68% less); strong vs Glass house (13.75 points).
+- **Thumper** (price 4.7 points): countered by Extra braces (80% less); strong vs Long wall (19 points).
+- **Fan** (price 2.9 points): countered by Heavy block + low wall (67% less); strong vs Braced Keep (3.25 points).
+- **Lobber, high lob (variant)** (price 4 points): countered by Roof (100% less); strong vs Long wall (2 points).
+
+## What each weapon is strong against (camps with no counter in them)
+
+| Weapon | Walled Keep | Braced Keep | Long wall | Workshop cluster | Glass house | Village |
+|---|---:|---:|---:|---:|---:|---:|
+| Lobber | 4.3 | 1.3 | **8.0** | 4.0 | 1.0 | 1.0 |
+| Flat flinger | **9.0** | 0.0 | 5.0 | 1.0 | 0.0 | 1.0 |
+| Roller | **14.3** | 3.4 | 11.5 | 13.6 | 3.5 | 7.3 |
+| Scatter popper | 1.5 | 1.0 | **4.1** | 3.3 | 0.4 | 1.3 |
+| Tether hook | 5.0 | 5.0 | 5.0 | 4.0 | **13.8** | 13.8 |
+| Thumper | 17.4 | 0.3 | **19.0** | 0.0 | 4.3 | 14.4 |
+| Fan | 0.0 | **3.3** | 1.8 | 0.0 | 2.3 | 2.8 |
+| Lobber, high lob (variant) | 0.0 | 0.0 | **2.0** | 1.0 | 0.0 | 0.0 |
+
+Bold is the weapon's best camp of the six.
+
+## Counter prices against weapon prices (budget points)
+
+| Counter | Price | Aimed at | Weapon price |
+|---|---:|---|---:|
+| Roof (awning) | 1 | Lobber | 4 |
+| Shield board | 1 | Flat flinger | 4.9 |
+| Log barrier | 1 | Flat flinger | 4.9 |
+| Ditch | 1 | Roller | 5.1 |
+| Log barrier | 1 | Roller | 5.1 |
+| Net | 0.5 | Scatter popper | 3.3 |
+| Cutter post | 0.5 | Tether hook | 3.1 |
+| Net | 0.5 | Tether hook | 3.1 |
+| Brace | 1 | Thumper | 4.7 |
+| Heavy block | 1.5 | Fan | 2.9 |
+| Low wall | 0.5 | Fan | 2.9 |
+
+Prices of weapons are `wPrice` (my formula, not tested against play). Counters cost from half a point to a point and a half. A camp row costs: Roof 1, Shield board 1, Ditch + log barrier 2, Net 0.5, Cutter post 0.5, Extra braces 3, Heavy block + low wall 2, Every counter 10.
